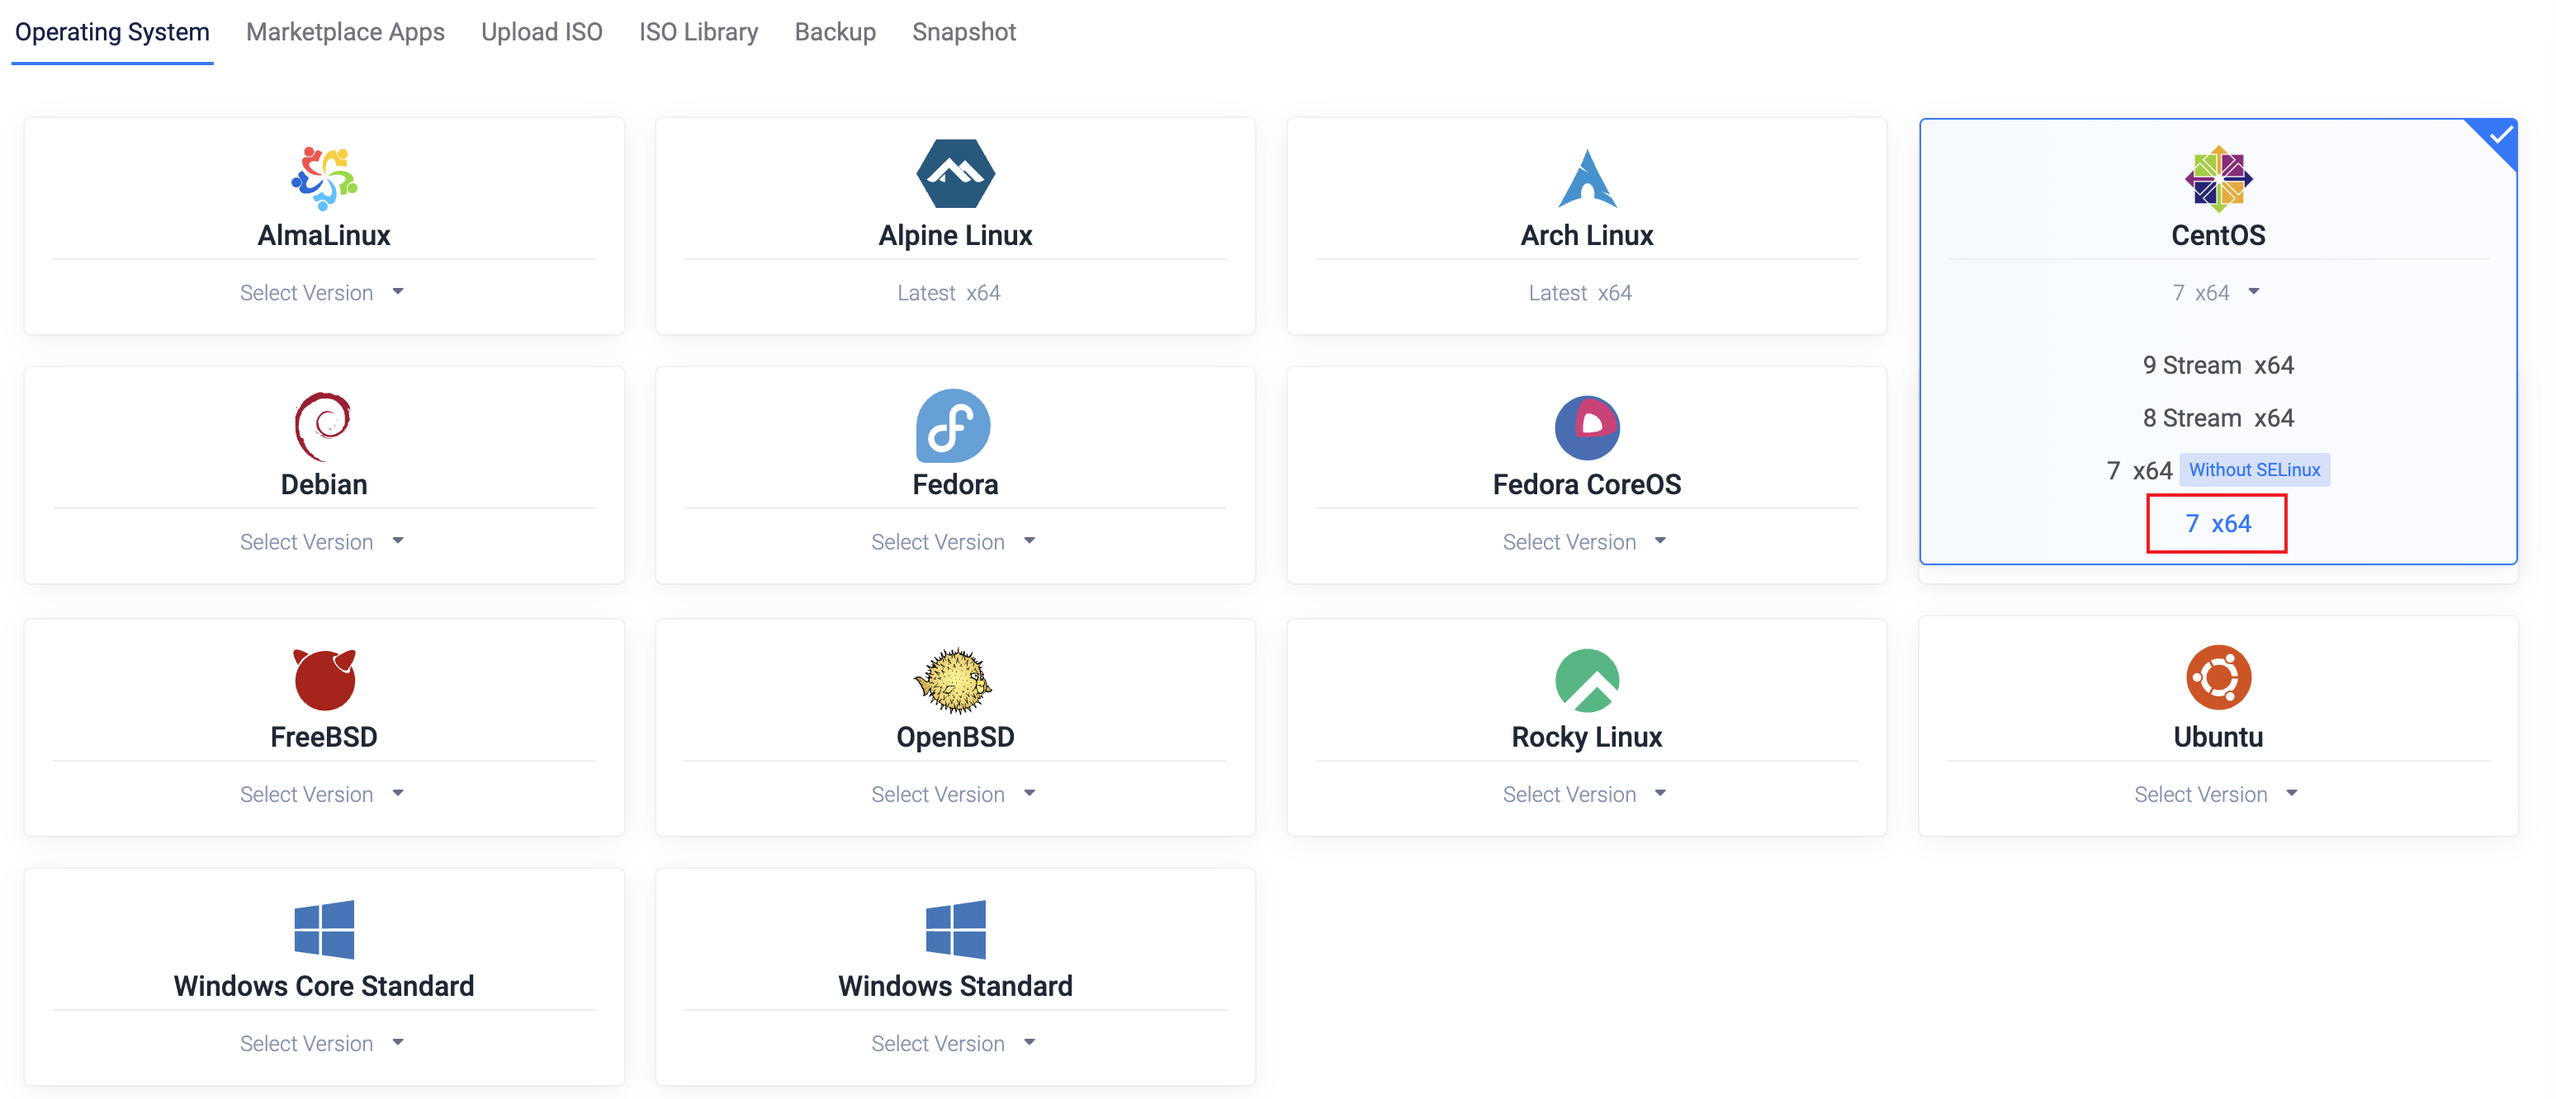
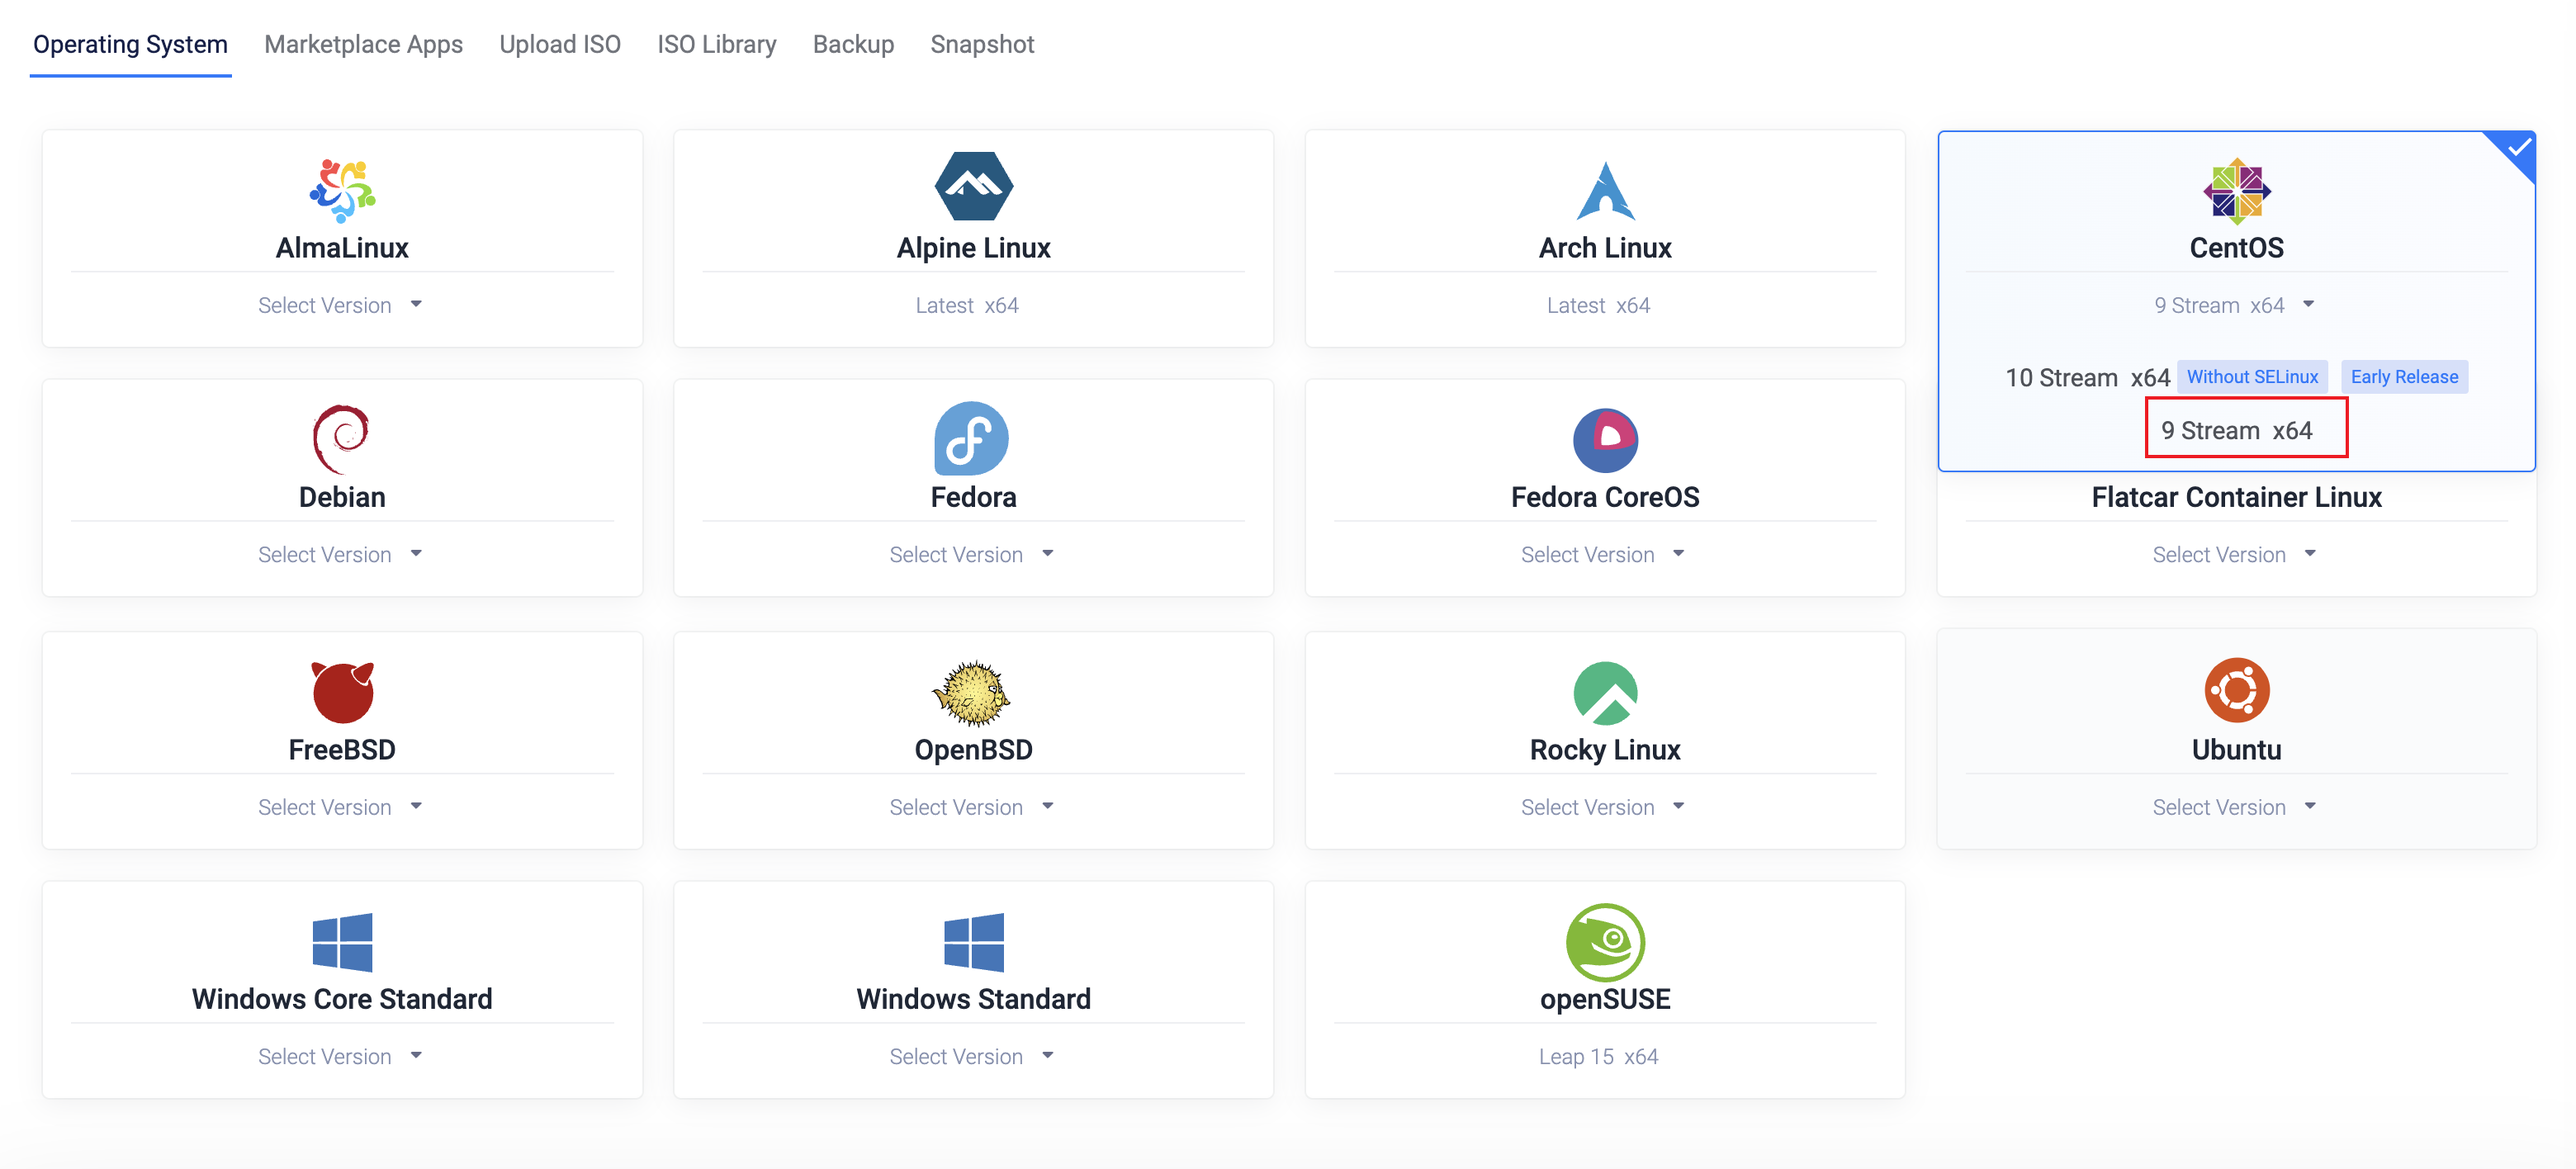
🧐Regular updates

diff --git a/README_en.md b/README_en.md
@@ -44,9 +44,9 @@ Step 2: On the page that opens, select the Frankfurt server in Germany. (Due to 
 
 ![](./images/location_select.png)
 
-Step 3: Next, pay attention to the system selection. It's recommended to choose **CentOS 7 x64**. Click on CentOS and select 7 x64 from the drop-down menu.
+Step 3: Next, pay attention to the system selection. It's recommended to choose **CentOS 9 x64**. Click on CentOS and select 9 x64 from the drop-down menu.
 
-![](./images/select_centos7.png)
+![](./images/choose_system.png)
 
 Step 4: Choose the package. Of course, you don't need a server with high configuration for SS. The lowest package that costs $5 per month is sufficient. Every time I check, the package that costs $2.5 is always sold out. If you can see it, be sure to choose it quickly. It's a rare opportunity.
 
@@ -174,7 +174,7 @@ I recommend taking a screenshot of this page so you don't forget the important i
 
 ![](./images/libev/7.png)
 
-Finally, you need to disable the firewall on your system. Paste the following command and enter.
+⚠ Attention: You need to disable the system firewall at the end. Just paste the following command and press Enter **(this step is important; otherwise, the server connection may fail)**.
 
 ```bash
 systemctl stop firewalld

diff --git a/README.md b/README.md
@@ -42,7 +42,7 @@ Vultr推荐链接：https://www.vultr.com/?ref=7370522
 
 ![](./images/choose_location.png)
 
-第三步：接下来要注意了，系统最好选择**CentOS 7 x64**，点击CentOS可以下拉选择7 x64
+第三步：接下来要注意了，系统最好选择**CentOS 9 x64**，点击CentOS可以下拉选择9 x64
 
 ![](./images/choose_system.png)
 
@@ -172,7 +172,7 @@ chmod +x shadowsocks-all.sh
 
 ![](./images/libev/7.png)
 
-最后需要关闭下系统的防火墙，粘贴下面的命令然后回车就行
+⚠注意：最后需要关闭下系统的防火墙，粘贴下面的命令然后回车就行**（这一步很重要，不然会无法连接到服务器）**
 
 ```bash
 systemctl stop firewalld
